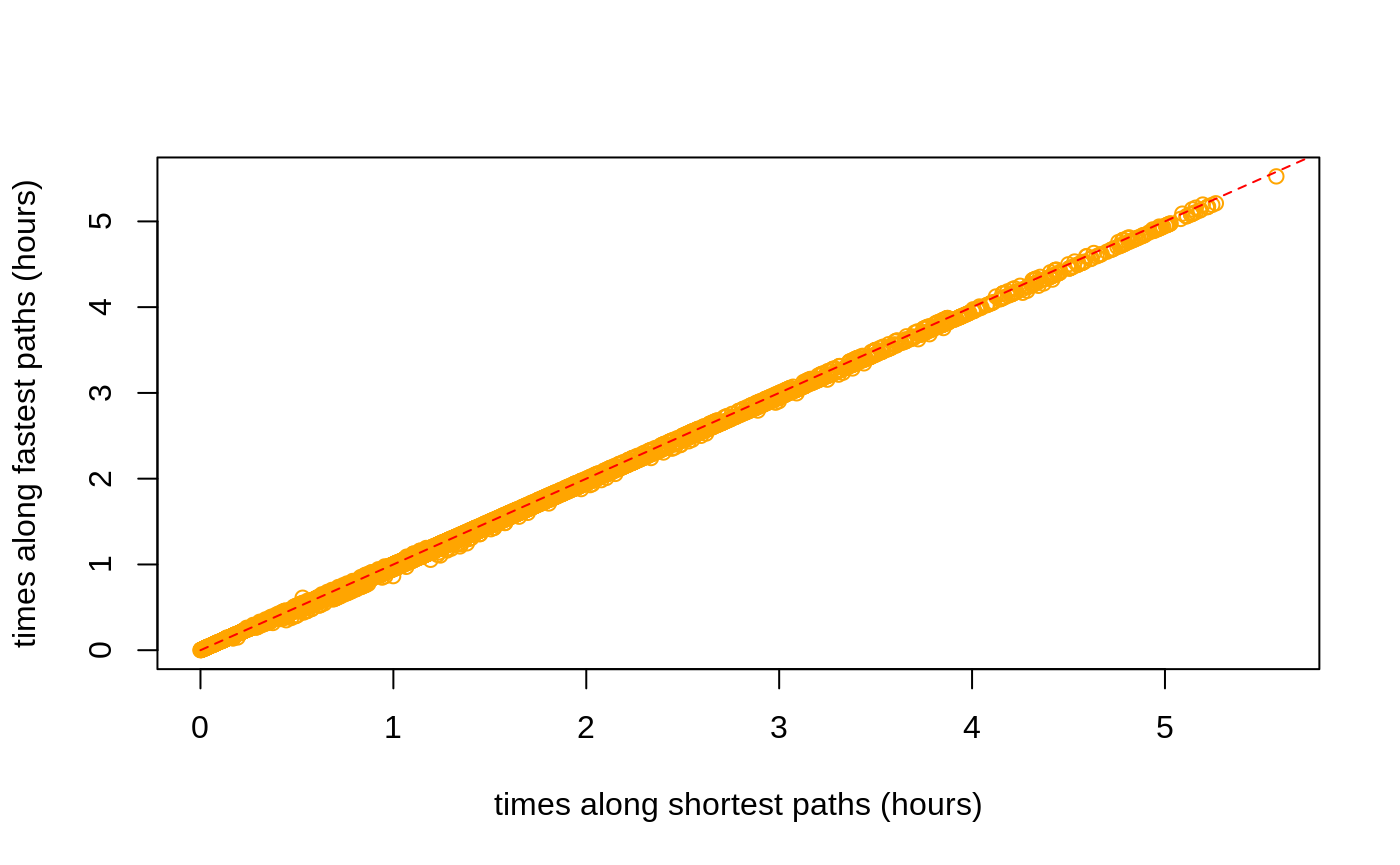
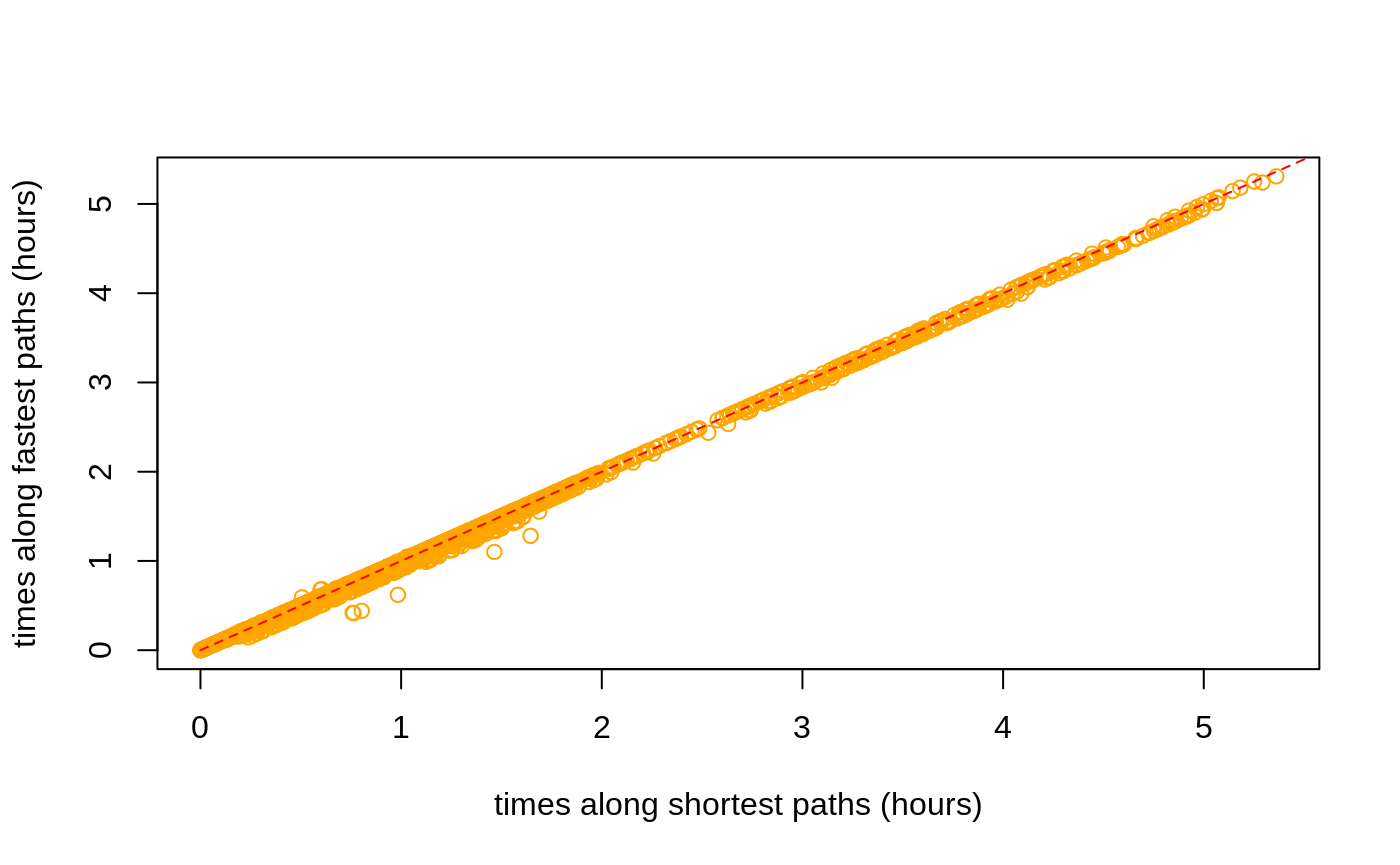
Built site for dodgr: 0.2.1.1@ddc7fbf

diff --git a/articles/dodgr.html b/articles/dodgr.html
@@ -31,7 +31,7 @@
       </button>
       <span class="navbar-brand">
         <a class="navbar-link" href="../index.html">dodgr</a>
-        <span class="version label label-default" data-toggle="tooltip" data-placement="bottom" title="Released version">0.2.1</span>
+        <span class="version label label-default" data-toggle="tooltip" data-placement="bottom" title="Released version">0.2.1.1</span>
       </span>
     </div>
 
@@ -70,7 +70,7 @@
       <h1>dodgr</h1>
                         <h4 class="author">Mark Padgham</h4>
             
-            <h4 class="date">2019-09-16</h4>
+            <h4 class="date">2019-09-17</h4>
       
       <small class="dont-index">Source: <a href="https://github.com/ATFutures/dodgr/blob/master/vignettes/dodgr.Rmd"><code>vignettes/dodgr.Rmd</code></a></small>
       <div class="hidden name"><code>dodgr.Rmd</code></div>
@@ -369,7 +369,7 @@ Figure 2: A <strong>dual</strong>-weighted, directed graph in which the weights 
 <div class="sourceCode" id="cb63"><pre class="sourceCode r"><code class="sourceCode r"><a class="sourceLine" id="cb63-1" data-line-number="1">d &lt;-<span class="st"> </span><span class="kw"><a href="../reference/dodgr_dists.html">dodgr_dists</a></span> (graph, <span class="dt">from =</span> xy)</a>
 <a class="sourceLine" id="cb63-2" data-line-number="2"><span class="kw"><a href="https://rdrr.io/r/base/dim.html">dim</a></span> (d); <span class="kw"><a href="https://rdrr.io/r/base/range.html">range</a></span> (d, <span class="dt">na.rm =</span> <span class="ot">TRUE</span>)</a></code></pre></div>
 <pre><code>## [1]  100 2926</code></pre>
-<pre><code>## [1]     0.00 28081.71</code></pre>
+<pre><code>## [1]     0.00 28677.34</code></pre>
 <p>If the <code>to</code> argument is also specified, the matrix returned will have rows matching <code>from</code> and columns matching <code>to</code></p>
 <div class="sourceCode" id="cb66"><pre class="sourceCode r"><code class="sourceCode r"><a class="sourceLine" id="cb66-1" data-line-number="1">d &lt;-<span class="st"> </span><span class="kw"><a href="../reference/dodgr_dists.html">dodgr_dists</a></span> (graph, <span class="dt">from =</span> xy, <span class="dt">to =</span> xy [<span class="dv">1</span><span class="op">:</span><span class="dv">10</span>, ])</a>
 <a class="sourceLine" id="cb66-2" data-line-number="2"><span class="kw"><a href="https://rdrr.io/r/base/dim.html">dim</a></span> (d)</a></code></pre></div>
@@ -423,31 +423,31 @@ Figure 2: A <strong>dual</strong>-weighted, directed graph in which the weights 
 <p>The comparisons are actually made on a randomly selected sub-component of the graph containing a defined number of vertices (with a default of 1,000, or the entire graph if it contains fewer than 1,000 vertices).</p>
 <div class="sourceCode" id="cb76"><pre class="sourceCode r"><code class="sourceCode r"><a class="sourceLine" id="cb76-1" data-line-number="1"><span class="kw"><a href="../reference/compare_heaps.html">compare_heaps</a></span> (graph, <span class="dt">nverts =</span> <span class="dv">1000</span>, <span class="dt">replications =</span> <span class="dv">1</span>)</a></code></pre></div>
 <pre><code>##                                                                                   test
-## 6       d &lt;- dodgr_dists(graph_contracted, from = from_id, to = to_id, heap = "BHeap")
 ## 11        d &lt;- dodgr_dists(graph_contracted, from = from_id, to = to_id, heap = "set")
+## 6       d &lt;- dodgr_dists(graph_contracted, from = from_id, to = to_id, heap = "BHeap")
 ## 7       d &lt;- dodgr_dists(graph_contracted, from = from_id, to = to_id, heap = "FHeap")
-## 9  d &lt;- dodgr_dists(graph_contracted, from = from_id, to = to_id, heap = "TriHeapExt")
 ## 10     d &lt;- dodgr_dists(graph_contracted, from = from_id, to = to_id, heap = "Heap23")
 ## 8     d &lt;- dodgr_dists(graph_contracted, from = from_id, to = to_id, heap = "TriHeap")
+## 9  d &lt;- dodgr_dists(graph_contracted, from = from_id, to = to_id, heap = "TriHeapExt")
 ## 1                  d &lt;- dodgr_dists(graph, from = from_id, to = to_id, heap = "BHeap")
 ## 12                  d &lt;- igraph::distances(igr, v = from_id, to = to_id, mode = "out")
 ## 2                  d &lt;- dodgr_dists(graph, from = from_id, to = to_id, heap = "FHeap")
-## 3                d &lt;- dodgr_dists(graph, from = from_id, to = to_id, heap = "TriHeap")
 ## 5                 d &lt;- dodgr_dists(graph, from = from_id, to = to_id, heap = "Heap23")
+## 3                d &lt;- dodgr_dists(graph, from = from_id, to = to_id, heap = "TriHeap")
 ## 4             d &lt;- dodgr_dists(graph, from = from_id, to = to_id, heap = "TriHeapExt")
 ##    replications elapsed relative user.self sys.self user.child sys.child
-## 6             1   0.005      1.0     0.006    0.000          0         0
-## 11            1   0.005      1.0     0.003    0.004          0         0
-## 7             1   0.006      1.2     0.010    0.000          0         0
-## 9             1   0.007      1.4     0.008    0.000          0         0
-## 10            1   0.007      1.4     0.011    0.000          0         0
-## 8             1   0.008      1.6     0.011    0.000          0         0
-## 1             1   0.016      3.2     0.026    0.000          0         0
-## 12            1   0.023      4.6     0.023    0.000          0         0
-## 2             1   0.024      4.8     0.042    0.000          0         0
-## 3             1   0.029      5.8     0.051    0.000          0         0
-## 5             1   0.029      5.8     0.051    0.000          0         0
-## 4             1   0.032      6.4     0.032    0.000          0         0</code></pre>
+## 11            1   0.004     1.00     0.007        0          0         0
+## 6             1   0.005     1.25     0.007        0          0         0
+## 7             1   0.007     1.75     0.011        0          0         0
+## 10            1   0.007     1.75     0.012        0          0         0
+## 8             1   0.008     2.00     0.013        0          0         0
+## 9             1   0.008     2.00     0.008        0          0         0
+## 1             1   0.016     4.00     0.026        0          0         0
+## 12            1   0.023     5.75     0.024        0          0         0
+## 2             1   0.024     6.00     0.043        0          0         0
+## 5             1   0.028     7.00     0.051        0          0         0
+## 3             1   0.029     7.25     0.052        0          0         0
+## 4             1   0.032     8.00     0.032        0          0         0</code></pre>
 <p>The key column of that <code>data.frame</code> is <code>relative</code>, which quantifies the relative performance of each test in relation to the best which is given a score of 1. <code>dodgr</code> using the default <code>heap = "BHeap"</code>, which is a binary heap priority queue, performs faster than <a href="https://igraph.org"><code>igraph</code></a> <span class="citation">(Csardi and Nepusz 2006)</span> for these graphs. Different kind of graphs will perform differently with different priority queue structures, and this function enables users to empirically discern the optimal heap for their kind of graph.</p>
 <p>Note, however, that this is not an entirely fair comparison, because <code>dodgr</code> calculates dual-weighted distances, whereas <a href="https://igraph.org"><code>igraph</code></a>—and indeed all other <strong>R</strong> packages—only directly calculate distances based on a single set of weights. Implementing dual-weighted routing in these cases requires explicitly re-tracing all paths and summing the second set of weights along each path. A time comparison in that case would be very strongly in favour of <code>dodgr</code>. Moreover, <code>dodgr</code> can convert graphs to contracted form through removing redundant vertices, as detailed in the following section. Doing so greatly improves performance with respect to <a href="https://igraph.org"><code>igraph</code></a>.</p>
 <p>For those wishing to do explicit comparisons themselves, the following code generates the <a href="https://igraph.org"><code>igraph</code></a> equivalent of <a href="https://atfutures.github.io/dodgr/reference/dodgr_distances.html"><code><a href="../reference/dodgr_distances.html">dodgr_distances()</a></code></a>, although of course for single-weighted graphs only:</p>
@@ -482,11 +482,11 @@ Figure 3: <strong>(A)</strong> Vertex#2 is redundant for routing calculations fr
 <a class="sourceLine" id="cb84-5" data-line-number="5">                       d2 &lt;-<span class="st"> </span><span class="kw"><a href="../reference/dodgr_dists.html">dodgr_dists</a></span> (graph, <span class="dt">from =</span> from, <span class="dt">to =</span> to),</a>
 <a class="sourceLine" id="cb84-6" data-line-number="6">                       <span class="dt">replications =</span> <span class="dv">2</span>)</a></code></pre></div>
 <pre><code>##                                             test replications elapsed
-## 2 d2 &lt;- dodgr_dists(graph, from = from, to = to)            2   0.045
-## 1   d2 &lt;- dodgr_dists(grc, from = from, to = to)            2   0.010
+## 2 d2 &lt;- dodgr_dists(graph, from = from, to = to)            2   0.043
+## 1   d2 &lt;- dodgr_dists(grc, from = from, to = to)            2   0.008
 ##   relative user.self sys.self user.child sys.child
-## 2      4.5     0.064    0.000          0         0
-## 1      1.0     0.008    0.004          0         0</code></pre>
+## 2    5.375     0.063        0          0         0
+## 1    1.000     0.011        0          0         0</code></pre>
 <p>And contracting the graph has a similar effect of speeding up pairwise routing between these 100 points. All routing algorithms scale non-linearly with size, and relative improvements in efficiency will be even greater for larger graphs.</p>
 <div id="routing-on-contracted-graphs" class="section level2">
 <h2 class="hasAnchor">
@@ -498,11 +498,11 @@ Figure 3: <strong>(A)</strong> Vertex#2 is redundant for routing calculations fr
 <pre><code>## [1] 672</code></pre>
 <div class="sourceCode" id="cb88"><pre class="sourceCode r"><code class="sourceCode r"><a class="sourceLine" id="cb88-1" data-line-number="1">verts &lt;-<span class="st"> </span><span class="kw"><a href="https://rdrr.io/r/base/sample.html">sample</a></span> (<span class="kw"><a href="../reference/dodgr_vertices.html">dodgr_vertices</a></span> (graph)<span class="op">$</span>id, <span class="dt">size =</span> <span class="dv">100</span>)</a>
 <a class="sourceLine" id="cb88-2" data-line-number="2"><span class="kw"><a href="https://rdrr.io/r/utils/head.html">head</a></span> (verts) <span class="co"># a character vector</span></a></code></pre></div>
-<pre><code>## [1] "980400701"  "3818704553" "2195424982" "2398957756" "339288064" 
-## [6] "339574833"</code></pre>
+<pre><code>## [1] "1148814809" "1376768674" "3921514728" "1398747923" "4337842214"
+## [6] "5351820907"</code></pre>
 <div class="sourceCode" id="cb90"><pre class="sourceCode r"><code class="sourceCode r"><a class="sourceLine" id="cb90-1" data-line-number="1">grc &lt;-<span class="st"> </span><span class="kw"><a href="../reference/dodgr_contract_graph.html">dodgr_contract_graph</a></span> (graph, verts)</a>
 <a class="sourceLine" id="cb90-2" data-line-number="2"><span class="kw"><a href="https://rdrr.io/r/base/nrow.html">nrow</a></span> (grc)</a></code></pre></div>
-<pre><code>## [1] 848</code></pre>
+<pre><code>## [1] 857</code></pre>
 <p>Retaining the nominated vertices yields a graph with considerably more edges than the fully contracted graph excluding these vertices. The <a href="https://atfutures.github.io/dodgr/reference/dodgr_distances.html"><code><a href="../reference/dodgr_distances.html">dodgr_distances()</a></code></a> function can be applied to the latter graph to obtain accurate distances precisely routed between these points, yet using the speed advantages of graph contraction.</p>
 </div>
 </div>
@@ -543,41 +543,31 @@ Figure 3: <strong>(A)</strong> Vertex#2 is redundant for routing calculations fr
 <pre><code>## [1] 10</code></pre>
 <p>The result (<code>dp</code>) is a list of 10 items, each of which contains 5 vectors. An example is,</p>
 <div class="sourceCode" id="cb97"><pre class="sourceCode r"><code class="sourceCode r"><a class="sourceLine" id="cb97-1" data-line-number="1">dp [[<span class="dv">1</span>]] [[<span class="dv">1</span>]]</a></code></pre></div>
-<pre><code>##   [1] "5351515767" "5351515766" "571423197"  "1388482150" "571423196" 
-##   [6] "5351515768" "5366412454" "571423195"  "571423194"  "571423457" 
-##  [11] "571423455"  "571423453"  "571423451"  "571423445"  "571423444" 
-##  [16] "571423442"  "2195425022" "2195425021" "2195425017" "2195425015"
-##  [21] "2195425011" "2195425009" "2195425008" "2195425007" "2195425006"
-##  [26] "2195425001" "3921514726" "5358983984" "3921514728" "3921514727"
-##  [31] "3921514722" "3921514724" "3921514719" "3921514721" "3921514723"
-##  [36] "3921514720" "3921514718" "571423169"  "571423164"  "571423157" 
-##  [41] "2627444773" "2627444772" "2627444771" "571423824"  "571423823" 
-##  [46] "571423821"  "571423820"  "1143452467" "2627444770" "571423819" 
-##  [51] "1143452332" "571423818"  "571423815"  "571423809"  "1143452536"
-##  [56] "1143452116" "571423799"  "1143452264" "571423793"  "3697940693"
-##  [61] "3697940688" "1143452506" "1143452099" "1143452234" "1143452360"
-##  [66] "1143452063" "1143452135" "1143452293" "1143452415" "1143452087"
-##  [71] "1143452174" "1143452183" "1143452379" "1143452262" "1143452410"
-##  [76] "1143452232" "2627440424" "2627440420" "1143452145" "1143452534"
-##  [81] "1143452383" "1143452207" "1143452113" "1143452463" "1143452327"
-##  [86] "1143452165" "2627428625" "2627428633" "2627428631" "2627428628"
-##  [91] "2627428627" "2627428629" "2627428647" "2627428637" "2627430653"
-##  [96] "2627428651" "2627428638" "2627428646" "2627428641" "2627428645"
-## [101] "2627428643" "3921512068" "2627428642" "2627428640" "2627428636"
-## [106] "2608163935" "2627428648" "2627428650" "2608163925" "2608163923"
-## [111] "2608163921" "2608163920" "2608163919" "2608163918" "2608163917"
-## [116] "2608163916" "2608163915" "2608163914" "2608163913" "4337853836"</code></pre>
+<pre><code>##  [1] "3697943910" "3697943911" "3697943913" "3697943912" "3697943914"
+##  [6] "3697943915" "3697943916" "3697943918" "3697943917" "3697943919"
+## [11] "3697943920" "3697943921" "977478698"  "977478659"  "1143452315"
+## [16] "1143452443" "977472692"  "1143452106" "977473079"  "1143452151"
+## [21] "1143452076" "1143452386" "1143452269" "2195424912" "980469030" 
+## [26] "1143452117" "2588155736" "1143452537" "5351394459" "977472658" 
+## [31] "1715830667" "977472699"  "1715805316" "980499691"  "5351394458"
+## [36] "977473069"  "977472926"  "5351394455" "5351394456" "5351394457"
+## [41] "977473090"  "5351394454" "977472850"  "977472947"  "977472717" 
+## [46] "977472755"  "977473123"  "5351394453" "977472618"  "5351394452"
+## [51] "5351394451" "977472990"  "5351394449" "5351394450" "977473143" 
+## [56] "977472907"  "977473010"  "5351394447" "977472776"  "977472811" 
+## [61] "4552228189" "2627480728" "6410121123" "977473047"  "1388483451"
+## [66] "977472969"  "977473072"</code></pre>
 <p>For spatial graphs, the coordinates of these paths can be obtained by extracting the vertices with <code><a href="../reference/dodgr_vertices.html">dodgr_vertices()</a></code> and matching the vertex IDs:</p>
 <div class="sourceCode" id="cb99"><pre class="sourceCode r"><code class="sourceCode r"><a class="sourceLine" id="cb99-1" data-line-number="1">verts &lt;-<span class="st"> </span><span class="kw"><a href="../reference/dodgr_vertices.html">dodgr_vertices</a></span> (graph)</a>
 <a class="sourceLine" id="cb99-2" data-line-number="2">path1 &lt;-<span class="st"> </span>verts [<span class="kw"><a href="https://rdrr.io/r/base/match.html">match</a></span> (dp [[<span class="dv">1</span>]] [[<span class="dv">1</span>]], verts<span class="op">$</span>id), ]</a>
 <a class="sourceLine" id="cb99-3" data-line-number="3"><span class="kw"><a href="https://rdrr.io/r/utils/head.html">head</a></span> (path1)</a></code></pre></div>
-<pre><code>##              id        x        y component   n
-## 1706 5351515767 76.47885 15.35852         2 864
-## 1704 5351515766 76.47801 15.35853         2 863
-## 1702  571423197 76.47671 15.35856         2 862
-## 1700 1388482150 76.47641 15.35847         2 861
-## 1698  571423196 76.47626 15.35833         2 860
-## 1696 5351515768 76.47600 15.35806         2 859</code></pre>
+<pre><code>##              id        x        y component    n
+## 2032 3697943910 76.46381 15.33840         2 1028
+## 2034 3697943911 76.46367 15.33856         2 1029
+## 2036 3697943913 76.46340 15.33854         2 1030
+## 2038 3697943912 76.46313 15.33836         2 1031
+## 2040 3697943914 76.46264 15.33849         2 1032
+## 2042 3697943915 76.46201 15.33853         2 1033</code></pre>
 <p>Paths calculated on contracted graphs will of course have fewer vertices than those calculated on full graphs.</p>
 </div>
 <div id="aggregated-flows" class="section level1">
@@ -621,7 +611,7 @@ Figure 3: <strong>(A)</strong> Vertex#2 is redundant for routing calculations fr
 <p>Most flows are zero because they have only been calculated between very few points in the graph.</p>
 <div class="sourceCode" id="cb104"><pre class="sourceCode r"><code class="sourceCode r"><a class="sourceLine" id="cb104-1" data-line-number="1"><span class="kw"><a href="https://rdrr.io/r/base/summary.html">summary</a></span> (graph_f<span class="op">$</span>flow)</a></code></pre></div>
 <pre><code>##    Min. 1st Qu.  Median    Mean 3rd Qu.    Max. 
-##  0.0000  0.0000  0.0000  5.5647  0.6107 66.1367</code></pre>
+##   0.000   0.000   0.000   5.942   0.000  91.229</code></pre>
 </div>
 <div id="flow-dispersal" class="section level2">
 <h2 class="hasAnchor">
@@ -631,7 +621,7 @@ Figure 3: <strong>(A)</strong> Vertex#2 is redundant for routing calculations fr
 <a class="sourceLine" id="cb106-2" data-line-number="2">graph_f &lt;-<span class="st"> </span><span class="kw"><a href="../reference/dodgr_flows_disperse.html">dodgr_flows_disperse</a></span> (graph, <span class="dt">from =</span> from, <span class="dt">dens =</span> dens)</a>
 <a class="sourceLine" id="cb106-3" data-line-number="3"><span class="kw"><a href="https://rdrr.io/r/base/summary.html">summary</a></span> (graph_f<span class="op">$</span>flow)</a></code></pre></div>
 <pre><code>##    Min. 1st Qu.  Median    Mean 3rd Qu.    Max. 
-## 0.00000 0.00000 0.00838 0.10536 0.11043 1.19536</code></pre>
+## 0.00000 0.00000 0.01306 0.18173 0.24862 2.08839</code></pre>
 </div>
 <div id="merging-directed-flows" class="section level2">
 <h2 class="hasAnchor">
@@ -641,7 +631,7 @@ Figure 3: <strong>(A)</strong> Vertex#2 is redundant for routing calculations fr
 <p>Resultant graphs produced by <a href="https://atfutures.github.io/dodgr/reference/merge_directed_flows.html"><code><a href="../reference/merge_directed_flows.html">merge_directed_flows()</a></code></a> only include those edges having non-zero flows, and so:</p>
 <div class="sourceCode" id="cb109"><pre class="sourceCode r"><code class="sourceCode r"><a class="sourceLine" id="cb109-1" data-line-number="1"><span class="kw"><a href="https://rdrr.io/r/base/nrow.html">nrow</a></span> (graph_f); <span class="kw"><a href="https://rdrr.io/r/base/nrow.html">nrow</a></span> (graph_undir) <span class="co"># the latter is much smaller</span></a></code></pre></div>
 <pre><code>## [1] 5973</code></pre>
-<pre><code>## [1] 2784</code></pre>
+<pre><code>## [1] 2754</code></pre>
 <p>The resultant graph can readily be merged with the original graph to regain the original data on vertex coordinates through</p>
 <div class="sourceCode" id="cb112"><pre class="sourceCode r"><code class="sourceCode r"><a class="sourceLine" id="cb112-1" data-line-number="1">graph &lt;-<span class="st"> </span>graph [graph_undir<span class="op">$</span>edge_id, ]</a>
 <a class="sourceLine" id="cb112-2" data-line-number="2">graph<span class="op">$</span>flow &lt;-<span class="st"> </span>graph_undir<span class="op">$</span>flow</a></code></pre></div>

diff --git a/articles/times.html b/articles/times.html
@@ -31,7 +31,7 @@
       </button>
       <span class="navbar-brand">
         <a class="navbar-link" href="../index.html">dodgr</a>
-        <span class="version label label-default" data-toggle="tooltip" data-placement="bottom" title="Released version">0.2.1</span>
+        <span class="version label label-default" data-toggle="tooltip" data-placement="bottom" title="Released version">0.2.1.1</span>
       </span>
     </div>
 
@@ -70,7 +70,7 @@
       <h1>Street networks and time-based routing</h1>
                         <h4 class="author">Mark Padgham</h4>
             
-            <h4 class="date">2019-09-16</h4>
+            <h4 class="date">2019-09-17</h4>
       
       <small class="dont-index">Source: <a href="https://github.com/ATFutures/dodgr/blob/master/vignettes/times.Rmd"><code>vignettes/times.Rmd</code></a></small>
       <div class="hidden name"><code>times.Rmd</code></div>
@@ -230,11 +230,11 @@ Figure 1: Graph modification to account for turn penalties, which introduces the
 <p><img src="times_files/figure-html/shortest-vs-fastest-1.png" width="700"></p>
 <p>The average distance between the two (in metres) is:</p>
 <div class="sourceCode" id="cb9"><pre class="sourceCode r"><code class="sourceCode r"><a class="sourceLine" id="cb9-1" data-line-number="1"><span class="kw"><a href="https://rdrr.io/r/base/mean.html">mean</a></span> (<span class="kw"><a href="https://rdrr.io/r/base/MathFun.html">abs</a></span> (d_time <span class="op">-</span><span class="st"> </span>d_dist), <span class="dt">na.rm =</span> <span class="ot">TRUE</span>)</a></code></pre></div>
-<pre><code>## [1] 61.92335</code></pre>
+<pre><code>## [1] 35.98823</code></pre>
 <p>The plot reveals that shortest distances are indeed somewhat shorter than distances along fastest paths, but also that some fastest paths are actually shorter than shortest paths:</p>
 <div class="sourceCode" id="cb11"><pre class="sourceCode r"><code class="sourceCode r"><a class="sourceLine" id="cb11-1" data-line-number="1">index &lt;-<span class="st"> </span><span class="kw"><a href="https://rdrr.io/r/base/which.html">which</a></span> (<span class="op">!</span><span class="kw"><a href="https://rdrr.io/r/base/NA.html">is.na</a></span> (d_time) <span class="op">&amp;</span><span class="st"> </span><span class="op">!</span><span class="kw"><a href="https://rdrr.io/r/base/NA.html">is.na</a></span> (d_dist))</a>
 <a class="sourceLine" id="cb11-2" data-line-number="2"><span class="kw"><a href="https://rdrr.io/r/base/length.html">length</a></span> (<span class="kw"><a href="https://rdrr.io/r/base/which.html">which</a></span> (d_time [index] <span class="op">&lt;</span><span class="st"> </span>d_dist [index])) <span class="op">/</span><span class="st"> </span><span class="kw"><a href="https://rdrr.io/r/base/length.html">length</a></span> (index)</a></code></pre></div>
-<pre><code>## [1] 0.003161222</code></pre>
+<pre><code>## [1] 0.02080182</code></pre>
 <p>While <code>dodgr</code> and indeed all routing engines attempt to maximally reconcile differences between fastest and shortest routes, there nevertheless remain important discrepancies. Foremost among these, and the primary reason why some fastest routes may in fact be shorter than shortest routes, is that fastest routes allocate preferences for different kinds of way based both on the <code>value</code> column in the <code>weighting_profiles$weighting_profiles</code> table illustrated above, and on the actual maximum speed of a given edge, which itself may be a combination of maximum speeds as specified in OSM itself, maximum speeds from the <code>weighting_profiles$weighting_profiles</code> table, or values specific to a given surface. The result is that some unique combination of maximum speeds along a network may lead to <em>fastest</em> routes being preferentially directed along a path that is actually shorter than the direct shortest path which is calculated independent of maximum speed values.</p>
 <p>Such discrepancies are important in understanding differences in routes <em>times</em> calculated along shortest versus fastest paths. These times can be calculated (in seconds) with the <a href="https://atfutures.github.io/dodgr/reference/dodgr_times.html"><code><a href="../reference/dodgr_times.html">dodgr_times()</a></code></a> function:</p>
 <div class="sourceCode" id="cb13"><pre class="sourceCode r"><code class="sourceCode r"><a class="sourceLine" id="cb13-1" data-line-number="1">t_dist &lt;-<span class="st"> </span><span class="kw"><a href="../reference/dodgr_times.html">dodgr_times</a></span> (graph, <span class="dt">from =</span> from, <span class="dt">to =</span> to, <span class="dt">shortest =</span> <span class="ot">TRUE</span>) <span class="co"># default</span></a>
@@ -245,11 +245,11 @@ Figure 1: Graph modification to account for turn penalties, which introduces the
 <a class="sourceLine" id="cb13-6" data-line-number="6"><span class="kw"><a href="https://rdrr.io/r/graphics/lines.html">lines</a></span> (<span class="dv">0</span><span class="op">:</span><span class="dv">100</span>, <span class="dv">0</span><span class="op">:</span><span class="dv">100</span>, <span class="dt">col =</span> <span class="st">"red"</span>, <span class="dt">lty =</span> <span class="dv">2</span>)</a></code></pre></div>
 <p><img src="times_files/figure-html/shortest-vs-fastest-times-1.png" width="700"></p>
 <div class="sourceCode" id="cb14"><pre class="sourceCode r"><code class="sourceCode r"><a class="sourceLine" id="cb14-1" data-line-number="1"><span class="kw"><a href="https://rdrr.io/r/base/mean.html">mean</a></span> (<span class="kw"><a href="https://rdrr.io/r/base/MathFun.html">abs</a></span> (t_time <span class="op">-</span><span class="st"> </span>t_dist), <span class="dt">na.rm =</span> <span class="ot">TRUE</span>)</a></code></pre></div>
-<pre><code>## [1] 57.85908</code></pre>
+<pre><code>## [1] 39.26819</code></pre>
 <p>As above, times along fastest paths are generally less than times along shortest paths, although there are again a few exceptions:</p>
 <div class="sourceCode" id="cb16"><pre class="sourceCode r"><code class="sourceCode r"><a class="sourceLine" id="cb16-1" data-line-number="1">index &lt;-<span class="st"> </span><span class="kw"><a href="https://rdrr.io/r/base/which.html">which</a></span> (<span class="op">!</span><span class="kw"><a href="https://rdrr.io/r/base/NA.html">is.na</a></span> (t_time) <span class="op">&amp;</span><span class="st"> </span><span class="op">!</span><span class="kw"><a href="https://rdrr.io/r/base/NA.html">is.na</a></span> (t_dist))</a>
 <a class="sourceLine" id="cb16-2" data-line-number="2"><span class="kw"><a href="https://rdrr.io/r/base/length.html">length</a></span> (<span class="kw"><a href="https://rdrr.io/r/base/which.html">which</a></span> (t_dist [index] <span class="op">&lt;</span><span class="st"> </span>t_time [index])) <span class="op">/</span><span class="st"> </span><span class="kw"><a href="https://rdrr.io/r/base/length.html">length</a></span> (index)</a></code></pre></div>
-<pre><code>## [1] 0.01703548</code></pre>
+<pre><code>## [1] 0.00586233</code></pre>
 <p>These results demonstrate how the combination of the <a href="https://atfutures.github.io/dodgr/reference/dodgr_distances.html"><code><a href="../reference/dodgr_distances.html">dodgr_distances()</a></code></a> and <a href="https://atfutures.github.io/dodgr/reference/dodgr_times.html"><code><a href="../reference/dodgr_times.html">dodgr_times()</a></code></a> functions enable calculation of both distances and times along both shortest and fastest paths.</p>
 <div id="time-based-paths-and-flow-aggregation" class="section level2">
 <h2 class="hasAnchor">

diff --git a/reference/compare_heaps.html b/reference/compare_heaps.html
@@ -73,7 +73,7 @@ dodgr_sample function and passed directly." />
       </button>
       <span class="navbar-brand">
         <a class="navbar-link" href="../index.html">dodgr</a>
-        <span class="version label label-default" data-toggle="tooltip" data-placement="bottom" title="Released version">0.2.1</span>
+        <span class="version label label-default" data-toggle="tooltip" data-placement="bottom" title="Released version">0.2.1.1</span>
       </span>
     </div>
 
@@ -157,30 +157,30 @@ fair comparisons, run only once or re-start the current R session.</p>
     <pre class="examples"><div class='input'><span class='no'>graph</span> <span class='kw'>&lt;-</span> <span class='fu'><a href='weight_streetnet.html'>weight_streetnet</a></span> (<span class='no'>hampi</span>)
 <span class='fu'>compare_heaps</span> (<span class='no'>graph</span>, <span class='kw'>nverts</span> <span class='kw'>=</span> <span class='fl'>1000</span>, <span class='kw'>replications</span> <span class='kw'>=</span> <span class='fl'>1</span>)</div><div class='output co'>#&gt;                                                                                   test
 #&gt; 6       d &lt;- dodgr_dists(graph_contracted, from = from_id, to = to_id, heap = "BHeap")
-#&gt; 11        d &lt;- dodgr_dists(graph_contracted, from = from_id, to = to_id, heap = "set")
 #&gt; 7       d &lt;- dodgr_dists(graph_contracted, from = from_id, to = to_id, heap = "FHeap")
 #&gt; 8     d &lt;- dodgr_dists(graph_contracted, from = from_id, to = to_id, heap = "TriHeap")
 #&gt; 9  d &lt;- dodgr_dists(graph_contracted, from = from_id, to = to_id, heap = "TriHeapExt")
 #&gt; 10     d &lt;- dodgr_dists(graph_contracted, from = from_id, to = to_id, heap = "Heap23")
+#&gt; 11        d &lt;- dodgr_dists(graph_contracted, from = from_id, to = to_id, heap = "set")
 #&gt; 1                  d &lt;- dodgr_dists(graph, from = from_id, to = to_id, heap = "BHeap")
 #&gt; 12                  d &lt;- igraph::distances(igr, v = from_id, to = to_id, mode = "out")
 #&gt; 2                  d &lt;- dodgr_dists(graph, from = from_id, to = to_id, heap = "FHeap")
 #&gt; 3                d &lt;- dodgr_dists(graph, from = from_id, to = to_id, heap = "TriHeap")
-#&gt; 4             d &lt;- dodgr_dists(graph, from = from_id, to = to_id, heap = "TriHeapExt")
 #&gt; 5                 d &lt;- dodgr_dists(graph, from = from_id, to = to_id, heap = "Heap23")
+#&gt; 4             d &lt;- dodgr_dists(graph, from = from_id, to = to_id, heap = "TriHeapExt")
 #&gt;    replications elapsed relative user.self sys.self user.child sys.child
-#&gt; 6             1   0.003    1.000     0.005    0.000          0         0
-#&gt; 11            1   0.003    1.000     0.000    0.003          0         0
-#&gt; 7             1   0.004    1.333     0.006    0.000          0         0
-#&gt; 8             1   0.005    1.667     0.006    0.000          0         0
-#&gt; 9             1   0.005    1.667     0.005    0.000          0         0
-#&gt; 10            1   0.005    1.667     0.006    0.000          0         0
-#&gt; 1             1   0.013    4.333     0.017    0.000          0         0
+#&gt; 6             1   0.003    1.000     0.000    0.003          0         0
+#&gt; 7             1   0.004    1.333     0.005    0.000          0         0
+#&gt; 8             1   0.004    1.333     0.006    0.000          0         0
+#&gt; 9             1   0.004    1.333     0.004    0.000          0         0
+#&gt; 10            1   0.004    1.333     0.005    0.000          0         0
+#&gt; 11            1   0.004    1.333     0.004    0.000          0         0
+#&gt; 1             1   0.011    3.667     0.016    0.000          0         0
 #&gt; 12            1   0.015    5.000     0.015    0.000          0         0
-#&gt; 2             1   0.018    6.000     0.029    0.000          0         0
-#&gt; 3             1   0.020    6.667     0.033    0.000          0         0
-#&gt; 4             1   0.020    6.667     0.021    0.000          0         0
-#&gt; 5             1   0.020    6.667     0.029    0.004          0         0</div></pre>
+#&gt; 2             1   0.017    5.667     0.027    0.000          0         0
+#&gt; 3             1   0.019    6.333     0.032    0.000          0         0
+#&gt; 5             1   0.019    6.333     0.032    0.000          0         0
+#&gt; 4             1   0.020    6.667     0.020    0.000          0         0</div></pre>
   </div>
   <div class="col-md-3 hidden-xs hidden-sm" id="sidebar">
     <h2>Contents</h2>

diff --git a/reference/dodgr_sample.html b/reference/dodgr_sample.html
@@ -69,7 +69,7 @@
       </button>
       <span class="navbar-brand">
         <a class="navbar-link" href="../index.html">dodgr</a>
-        <span class="version label label-default" data-toggle="tooltip" data-placement="bottom" title="Released version">0.2.1</span>
+        <span class="version label label-default" data-toggle="tooltip" data-placement="bottom" title="Released version">0.2.1.1</span>
       </span>
     </div>
 
@@ -143,7 +143,7 @@ the requested <code>nverts</code>.</p>
     <h2 class="hasAnchor" id="examples"><a class="anchor" href="#examples"></a>Examples</h2>
     <pre class="examples"><div class='input'><span class='no'>graph</span> <span class='kw'>&lt;-</span> <span class='fu'><a href='weight_streetnet.html'>weight_streetnet</a></span> (<span class='no'>hampi</span>)
 <span class='fu'><a href='https://rdrr.io/r/base/nrow.html'>nrow</a></span> (<span class='no'>graph</span>) <span class='co'># 5,742</span></div><div class='output co'>#&gt; [1] 5973</div><div class='input'><span class='no'>graph</span> <span class='kw'>&lt;-</span> <span class='fu'>dodgr_sample</span> (<span class='no'>graph</span>, <span class='kw'>nverts</span> <span class='kw'>=</span> <span class='fl'>200</span>)
-<span class='fu'><a href='https://rdrr.io/r/base/nrow.html'>nrow</a></span> (<span class='no'>graph</span>) <span class='co'># generally around 400 edges</span></div><div class='output co'>#&gt; [1] 411</div><div class='input'><span class='fu'><a href='https://rdrr.io/r/base/nrow.html'>nrow</a></span> (<span class='fu'><a href='dodgr_vertices.html'>dodgr_vertices</a></span> (<span class='no'>graph</span>)) <span class='co'># 200</span></div><div class='output co'>#&gt; [1] 200</div></pre>
+<span class='fu'><a href='https://rdrr.io/r/base/nrow.html'>nrow</a></span> (<span class='no'>graph</span>) <span class='co'># generally around 400 edges</span></div><div class='output co'>#&gt; [1] 405</div><div class='input'><span class='fu'><a href='https://rdrr.io/r/base/nrow.html'>nrow</a></span> (<span class='fu'><a href='dodgr_vertices.html'>dodgr_vertices</a></span> (<span class='no'>graph</span>)) <span class='co'># 200</span></div><div class='output co'>#&gt; [1] 200</div></pre>
   </div>
   <div class="col-md-3 hidden-xs hidden-sm" id="sidebar">
     <h2>Contents</h2>

diff --git a/articles/benchmark.html b/articles/benchmark.html
@@ -31,7 +31,7 @@
       </button>
       <span class="navbar-brand">
         <a class="navbar-link" href="../index.html">dodgr</a>
-        <span class="version label label-default" data-toggle="tooltip" data-placement="bottom" title="Released version">0.2.1</span>
+        <span class="version label label-default" data-toggle="tooltip" data-placement="bottom" title="Released version">0.2.1.1</span>
       </span>
     </div>
 
@@ -70,7 +70,7 @@
       <h1>dodgr benchmark</h1>
                         <h4 class="author">Andreas Petutschnig</h4>
             
-            <h4 class="date">2019-09-16</h4>
+            <h4 class="date">2019-09-17</h4>
       
       <small class="dont-index">Source: <a href="https://github.com/ATFutures/dodgr/blob/master/vignettes/benchmark.Rmd"><code>vignettes/benchmark.Rmd</code></a></small>
       <div class="hidden name"><code>benchmark.Rmd</code></div>

diff --git a/reference/weighting_profiles.html b/reference/weighting_profiles.html
@@ -72,7 +72,7 @@ type of surface, and waiting times in seconds at traffic lights." />
       </button>
       <span class="navbar-brand">
         <a class="navbar-link" href="../index.html">dodgr</a>
-        <span class="version label label-default" data-toggle="tooltip" data-placement="bottom" title="Released version">0.2.1</span>
+        <span class="version label label-default" data-toggle="tooltip" data-placement="bottom" title="Released version">0.2.1.1</span>
       </span>
     </div>
 

diff --git a/reference/dodgr_uncontract_graph.html b/reference/dodgr_uncontract_graph.html
@@ -72,7 +72,7 @@ on to the original graph, as demonstrated in the example." />
       </button>
       <span class="navbar-brand">
         <a class="navbar-link" href="../index.html">dodgr</a>
-        <span class="version label label-default" data-toggle="tooltip" data-placement="bottom" title="Released version">0.2.1</span>
+        <span class="version label label-default" data-toggle="tooltip" data-placement="bottom" title="Released version">0.2.1.1</span>
       </span>
     </div>
 

diff --git a/reference/dodgr_isoverts.html b/reference/dodgr_isoverts.html
@@ -73,7 +73,7 @@ isodistances, or one or more tlim values for isochrones." />
       </button>
       <span class="navbar-brand">
         <a class="navbar-link" href="../index.html">dodgr</a>
-        <span class="version label label-default" data-toggle="tooltip" data-placement="bottom" title="Released version">0.2.1</span>
+        <span class="version label label-default" data-toggle="tooltip" data-placement="bottom" title="Released version">0.2.1.1</span>
       </span>
     </div>
 

diff --git a/reference/dodgr_cache_on.html b/reference/dodgr_cache_on.html
@@ -70,7 +70,7 @@ after caching has been turned off with dodgr_cache_off." />
       </button>
       <span class="navbar-brand">
         <a class="navbar-link" href="../index.html">dodgr</a>
-        <span class="version label label-default" data-toggle="tooltip" data-placement="bottom" title="Released version">0.2.1</span>
+        <span class="version label label-default" data-toggle="tooltip" data-placement="bottom" title="Released version">0.2.1.1</span>
       </span>
     </div>
 

diff --git a/reference/weight_streetnet.html b/reference/weight_streetnet.html
@@ -71,7 +71,7 @@ bicycle, moped, motorcycle, motorcar, goods, hgv, psv)." />
       </button>
       <span class="navbar-brand">
         <a class="navbar-link" href="../index.html">dodgr</a>
-        <span class="version label label-default" data-toggle="tooltip" data-placement="bottom" title="Released version">0.2.1</span>
+        <span class="version label label-default" data-toggle="tooltip" data-placement="bottom" title="Released version">0.2.1.1</span>
       </span>
     </div>
 

diff --git a/reference/dodgr_sflines_to_poly.html b/reference/dodgr_sflines_to_poly.html
@@ -70,7 +70,7 @@ fundamental cycles within the LINESTRING objects." />
       </button>
       <span class="navbar-brand">
         <a class="navbar-link" href="../index.html">dodgr</a>
-        <span class="version label label-default" data-toggle="tooltip" data-placement="bottom" title="Released version">0.2.1</span>
+        <span class="version label label-default" data-toggle="tooltip" data-placement="bottom" title="Released version">0.2.1.1</span>
       </span>
     </div>
 

diff --git a/reference/merge_directed_flows.html b/reference/merge_directed_flows.html
@@ -75,7 +75,7 @@ edge, and aggregating flows from both directions." />
       </button>
       <span class="navbar-brand">
         <a class="navbar-link" href="../index.html">dodgr</a>
-        <span class="version label label-default" data-toggle="tooltip" data-placement="bottom" title="Released version">0.2.1</span>
+        <span class="version label label-default" data-toggle="tooltip" data-placement="bottom" title="Released version">0.2.1.1</span>
       </span>
     </div>
 
